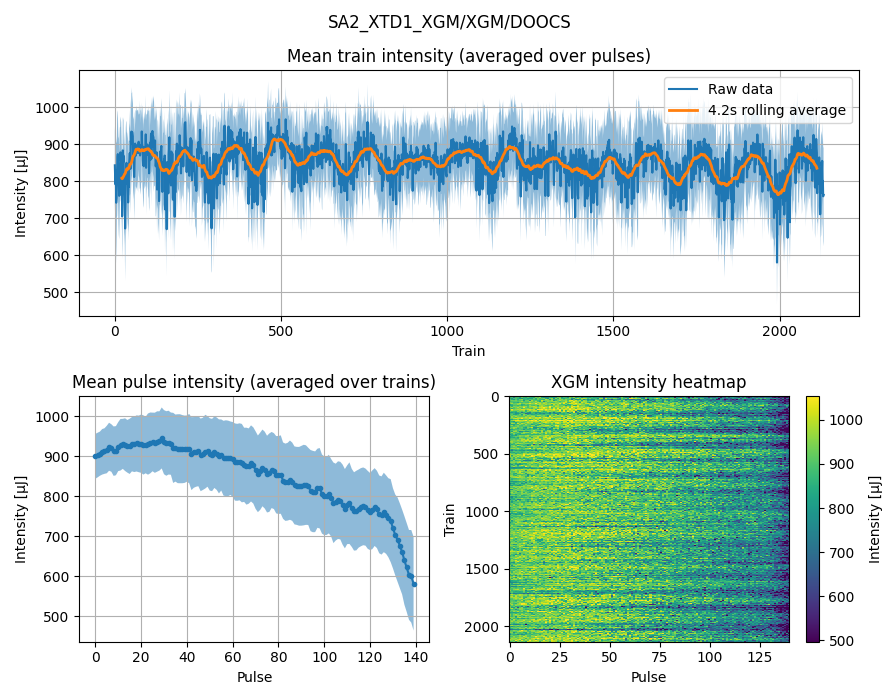
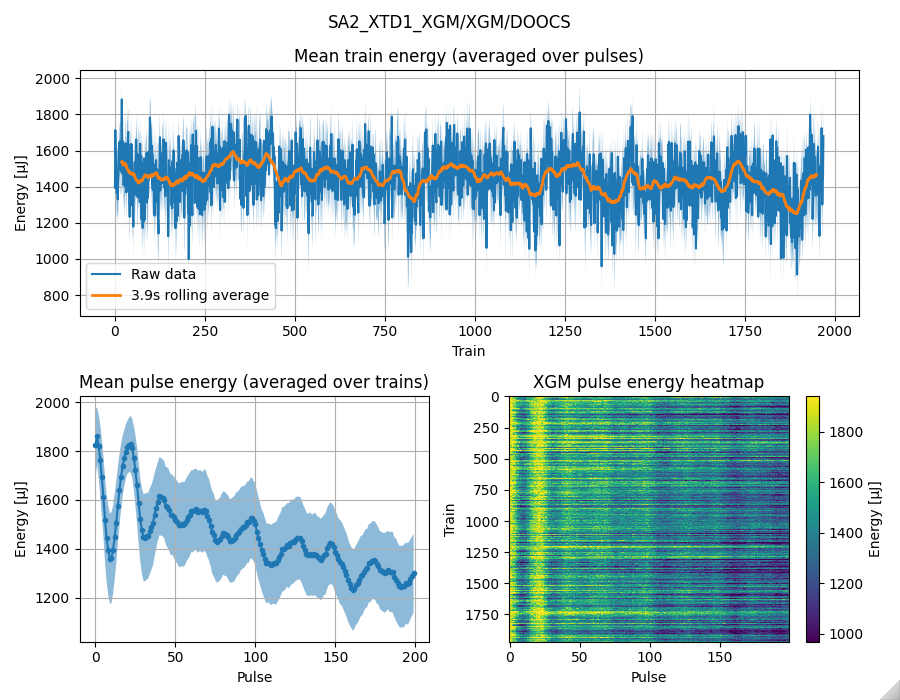
Rename 'intensity' to 'energy'
This is more physically accurate since the XGM actually gives back an energy
rather than intensity in its `data.intensityTD` property.

diff --git a/src/extra/components/xgm.py b/src/extra/components/xgm.py
@@ -139,7 +139,7 @@ class XGM:
                 working with XGMs on SASE 1 or SASE 3 and you're only interested
                 in data for a specific SASE. This setting applies to all the
                 SASE-specific methods of the class, such as
-                [XGM.intensity()][extra.components.XGM.intensity] and
+                [XGM.pulse_energy()][extra.components.XGM.pulse_energy] and
                 [XGM.npulses()][extra.components.XGM.npulses].
 
                 If it is not set the class will try to guess the SASE of the
@@ -189,7 +189,7 @@ class XGM:
         self._photon_energy_by_train = None
         self._photon_flux = None
         self._doocs_server = None
-        self._intensity = { }
+        self._pulse_energy = { }
         self._npulses = { }
         self._npulses_by_train = { }
         self._max_pulses = { }
@@ -299,14 +299,17 @@ class XGM:
 
         return PropertyGroup(sase) if sase is not None else self._default_pg
 
-    def intensity(self, sase=None):
-        """Return a 2D [DataArray][xarray.DataArray] of the pulse intensities in keV.
+    def pulse_energy(self, sase=None):
+        """Return a 2D [DataArray][xarray.DataArray] of the pulse energy in microjoules.
 
         This has dimensions of `(trainId, pulseIndex)`. For runs with a varying
         number of pulses, the data will be sliced to the *maximum number* of
         pulses. e.g. if a run has 100 trains with only one train containing 10
         pulses and all the others 0, the returned array will have a shape of
         `(100, 10)`.
+
+        Note:
+            This uses the `data.intensityTD` property of the XGM.
 
         Args:
             sase (int): Specify a SASE to retrieve data for. For XGMs from SASE
@@ -318,7 +321,7 @@ class XGM:
                 [constructor][extra.components.XGM].
         """
         pg = self._check_sase_arg(sase)
-        if pg not in self._intensity:
+        if pg not in self._pulse_energy:
             if pg == PropertyGroup.MAIN:
                 key = "data.intensityTD"
             else:
@@ -328,17 +331,17 @@ class XGM:
 
             # We could use .xarray(roi=...) here, but that fails because of h5py
             # when max_pulses is 0.
-            intensity = self.instrument_source[key].xarray()[:, :max_pulses]
+            pulse_energy = self.instrument_source[key].xarray()[:, :max_pulses]
             # Assign a pulseIndex dimension and coordinate
-            intensity = intensity.rename(dim_0="pulseIndex").assign_coords(pulseIndex=np.arange(max_pulses))
+            pulse_energy = pulse_energy.rename(dim_0="pulseIndex").assign_coords(pulseIndex=np.arange(max_pulses))
             # Replace the default fill value of 1 with 0
-            intensity.data[intensity.data == 1] = 0
+            pulse_energy.data[pulse_energy.data == 1] = 0
             # Add units
-            intensity.attrs["units"] = "µJ"
+            pulse_energy.attrs["units"] = "µJ"
 
-            self._intensity[pg] = intensity
+            self._pulse_energy[pg] = pulse_energy
 
-        return self._intensity[pg]
+        return self._pulse_energy[pg]
 
     def _get_main_nbunches_key(self):
         """Helper function to find the main key for the number of bunches.
@@ -369,7 +372,7 @@ class XGM:
 
         Args:
             sase (int): Same meaning as in
-                [XGM.intensity()][extra.components.XGM.intensity].
+                [XGM.pulse_energy()][extra.components.XGM.pulse_energy].
 
         Raises:
             ValueError: Will be thrown if the number of pulses is not constant.
@@ -392,7 +395,7 @@ class XGM:
 
         Args:
             sase (int): Same meaning as in
-                [XGM.intensity()][extra.components.XGM.intensity].
+                [XGM.pulse_energy()][extra.components.XGM.pulse_energy].
         """
         pg = self._check_sase_arg(sase)
         if pg not in self._npulses_by_train:
@@ -412,7 +415,7 @@ class XGM:
 
         Args:
             sase (int): Same meaning as in
-                [XGM.intensity()][extra.components.XGM.intensity].
+                [XGM.pulse_energy()][extra.components.XGM.pulse_energy].
         """
         pg = self._check_sase_arg(sase)
         if pg not in self._max_pulses:
@@ -428,7 +431,7 @@ class XGM:
 
         Args:
             sase (int): Same meaning as in
-                [XGM.intensity()][extra.components.XGM.intensity].
+                [XGM.pulse_energy()][extra.components.XGM.pulse_energy].
         """
         try:
             self.npulses(sase)
@@ -476,10 +479,10 @@ class XGM:
     def plot(self, sase=None, figsize=(9, 7)):
         """Plot an overview of data from the XGM.
 
-        This combines [XGM.plot_intensity()][extra.components.XGM.plot_intensity],
-        [XGM.plot_pulse_intensity()][extra.components.XGM.plot_pulse_intensity],
+        This combines [XGM.plot_pulse_energy()][extra.components.XGM.plot_pulse_energy],
+        [XGM.plot_energy_per_pulse()][extra.components.XGM.plot_energy_per_pulse],
         and
-        [XGM.plot_train_intensity()][extra.components.XGM.plot_train_intensity]
+        [XGM.plot_energy_per_train()][extra.components.XGM.plot_energy_per_train]
         in a single figure.
 
         Example plot:
@@ -487,7 +490,7 @@ class XGM:
 
         Args:
             sase (int): Same meaning as in
-                [XGM.intensity()][extra.components.XGM.intensity].
+                [XGM.pulse_energy()][extra.components.XGM.pulse_energy].
             figsize (tuple): The size of the [Figure][matplotlib.figure.Figure].
         """
         import matplotlib.pyplot as plt
@@ -499,9 +502,9 @@ class XGM:
         ax2 = fig.add_subplot(gs[1, 0])
         ax3 = fig.add_subplot(gs[1, 1])
 
-        self.plot_train_intensity(sase=sase, ax=ax1, minimal_title=True)
-        self.plot_intensity(sase=sase, ax=ax3, minimal_title=True)
-        self.plot_pulse_intensity(sase=sase, ax=ax2, minimal_title=True)
+        self.plot_energy_per_train(sase=sase, ax=ax1, minimal_title=True)
+        self.plot_pulse_energy(sase=sase, ax=ax3, minimal_title=True)
+        self.plot_energy_per_pulse(sase=sase, ax=ax2, minimal_title=True)
 
         run_prefix = self._get_run_prefix()
         device_label = self._get_device_label(sase)
@@ -511,15 +514,15 @@ class XGM:
 
         return fig.get_axes()[0]
 
-    def plot_intensity(self, sase=None, ax=None, minimal_title=False):
-        """Plot a heatmap of the pulse intensities.
+    def plot_pulse_energy(self, sase=None, ax=None, minimal_title=False):
+        """Plot a heatmap of the pulse energies.
 
         Example plot:
-        ![](../images/xgm-plot-intensity.png)
+        ![](../images/xgm-plot-pulse-energy.png)
 
         Args:
             sase (int): Same meaning as in
-                [XGM.intensity()][extra.components.XGM.intensity].
+                [XGM.pulse_energy()][extra.components.XGM.pulse_energy].
             ax (matplotlib.axes.Axes): The axis to plot in. This will default to
                 [plt][matplotlib.pyplot] if not provided.
             minimal_title (bool): Whether to include the proposal/run
@@ -531,47 +534,47 @@ class XGM:
         else:
             fig = ax.get_figure()
 
-        intensity = self.intensity(sase)
+        pulse_energy = self.pulse_energy(sase)
 
         from extra.utils import imshow2
-        im = imshow2(intensity, ax=ax, aspect="auto")
+        im = imshow2(pulse_energy, ax=ax, aspect="auto")
 
-        self._set_plot_title("XGM intensity heatmap", ax, sase, minimal_title)
+        self._set_plot_title("XGM pulse energy heatmap", ax, sase, minimal_title)
         ax.set_xlabel("Pulse")
         ax.set_ylabel("Train")
 
         colorbar = fig.colorbar(im)
-        colorbar.ax.set_ylabel("Intensity [μJ]")
+        colorbar.ax.set_ylabel("Energy [μJ]")
         fig.tight_layout()
 
         return ax
 
-    def plot_pulse_intensity(self, sase=None, ax=None, minimal_title=False):
-        """Plot the average pulse intensity.
+    def plot_energy_per_pulse(self, sase=None, ax=None, minimal_title=False):
+        """Plot the average pulse energy.
 
         Example plot:
-        ![](../images/xgm-plot-pulse-intensities.png)
+        ![](../images/xgm-plot-energy-per-pulse.png)
 
         Args:
             sase (int): Same meaning as in
-                [XGM.intensity()][extra.components.XGM.intensity].
+                [XGM.pulse_energy()][extra.components.XGM.pulse_energy].
             ax (matplotlib.axes.Axes): The axis to plot in. This will default to
                 [plt][matplotlib.pyplot] if not provided.
             minimal_title (bool): Whether to include the proposal/run
                 information and XGM device name in the title.
         """
-        return self._plot_axis_intensity("pulse", "train", sase, ax, fmt="o-",
+        return self._plot_axis_energy("pulse", "train", sase, ax, fmt="o-",
                                          markersize=3, minimal_title=minimal_title)
 
-    def plot_train_intensity(self, sase=None, window_trains=None, ax=None, minimal_title=False):
-        """Plot the average train intensity.
+    def plot_energy_per_train(self, sase=None, window_trains=None, ax=None, minimal_title=False):
+        """Plot the average train energy.
 
         Example plot:
-        ![](../images/xgm-plot-train-intensities.png)
+        ![](../images/xgm-plot-energy-per-train.png)
 
         Args:
             sase (int): Same meaning as in
-                [XGM.intensity()][extra.components.XGM.intensity].
+                [XGM.pulse_energy()][extra.components.XGM.pulse_energy].
             window_trains (int): The number of trains to use when plotting the
                 rolling average. By default this is chosen automatically based
                 on the number of trains in the run.
@@ -580,49 +583,49 @@ class XGM:
             minimal_title (bool): Whether to include the proposal/run
                 information and XGM device name in the title.
         """
-        intensity = self.intensity(sase)
+        pulse_energy = self.pulse_energy(sase)
 
         if window_trains is None:
             # Select a number of trains such that the number of points
             # will be about 500. The goal is to smooth the data just enough
             # to see something visually useful no matter how long the run is.
-            window_trains = max(1, int(intensity.shape[0] / 500 * 10))
+            window_trains = max(1, int(pulse_energy.shape[0] / 500 * 10))
 
-        ax = self._plot_axis_intensity("train", "pulse", sase, ax, minimal_title=minimal_title)
+        ax = self._plot_axis_energy("train", "pulse", sase, ax, minimal_title=minimal_title)
 
         if window_trains > 1 and len(self._control_source.train_ids) > 300:
-            rolling_mean = intensity.mean(dim="pulseIndex").rolling(trainId=window_trains, center=True).mean()
+            rolling_mean = pulse_energy.mean(dim="pulseIndex").rolling(trainId=window_trains, center=True).mean()
             ax.plot(rolling_mean, label=f"{window_trains / 10:.1f}s rolling average", linewidth=2)
 
         ax.legend()
 
         return ax
 
-    def _plot_axis_intensity(self, axis_name, other_axis_name, sase, ax, fmt="-", minimal_title=False, **kwargs):
+    def _plot_axis_energy(self, axis_name, other_axis_name, sase, ax, fmt="-", minimal_title=False, **kwargs):
         if ax is None:
             import matplotlib.pyplot as plt
             fig, ax = plt.subplots(figsize=(9, 5))
 
-        intensity = self.intensity(sase)
+        pulse_energy = self.pulse_energy(sase)
 
         get_dim = lambda x: "trainId" if x == "train" else "pulseIndex"
-        axis_intensity = intensity.mean(dim=get_dim(other_axis_name))
-        axis_std = intensity.std(dim=get_dim(other_axis_name))
-        xs = np.arange(len(axis_intensity))
+        axis_energy = pulse_energy.mean(dim=get_dim(other_axis_name))
+        axis_std = pulse_energy.std(dim=get_dim(other_axis_name))
+        xs = np.arange(len(axis_energy))
 
-        ax.plot(axis_intensity, fmt if len(xs) > 1 else "o", label="Raw data", **kwargs)
+        ax.plot(axis_energy, fmt if len(xs) > 1 else "o", label="Raw data", **kwargs)
 
         if len(xs) > 1:
             ax.fill_between(xs,
-                            axis_intensity - axis_std, axis_intensity + axis_std,
+                            axis_energy - axis_std, axis_energy + axis_std,
                             alpha=0.5)
         else:
-            ax.errorbar(xs, axis_intensity, yerr=axis_std, capsize=10, fmt="none")
+            ax.errorbar(xs, axis_energy, yerr=axis_std, capsize=10, fmt="none")
 
-        self._set_plot_title(f"Mean {axis_name} intensity (averaged over {other_axis_name}s)",
+        self._set_plot_title(f"Mean {axis_name} energy (averaged over {other_axis_name}s)",
                              ax, sase, minimal_title)
         ax.set_xlabel(axis_name.capitalize())
-        ax.set_ylabel("Intensity [μJ]")
+        ax.set_ylabel("Energy [μJ]")
         ax.grid()
 
         return ax
@@ -643,7 +646,7 @@ class XGM:
         {self.control_source.source} properties{run_str}:
           Avg. nominal wavelength:    {self.wavelength_by_train().mean().item():.3f} nm
           Avg. nominal photon energy: {self.photon_energy_by_train().mean().item():.2f} keV
-          Avg. pulse energy:          {self.intensity().mean().item():.2f} µJ
+          Avg. pulse energy:          {self.pulse_energy().mean().item():.2f} µJ
 
           Max pulses:                 {self.max_npulses()}
           Mean pulses:                {self.pulse_counts().mean().item():.3f}

diff --git a/tests/test_components_xgm.py b/tests/test_components_xgm.py
@@ -57,7 +57,7 @@ def test_xgm_getters(multi_xgm_run, source_sase):
     assert isinstance(xgm.photon_energy(with_units=False), float)
     xgm.photon_energy_by_train()
     xgm.doocs_server()
-    xgm.intensity()
+    xgm.pulse_energy()
     xgm.npulses()
     xgm.pulse_counts()
     xgm.max_npulses()
@@ -71,33 +71,33 @@ def test_multisase_xgm(multi_xgm_run):
     # Test results without setting `default_sase`
     xgm = XGM(run, control)
     # It should automatically pick SASE 3 based on the source name
-    assert xgm.intensity().name == f"{instrument}.data.intensitySa3TD"
+    assert xgm.pulse_energy().name == f"{instrument}.data.intensitySa3TD"
     assert xgm.pulse_counts().name == f"{control}.pulseEnergy.numberOfSa3BunchesActual"
 
     # And with a `default_sase`
     xgm = XGM(run, control, default_sase=1)
-    assert xgm.intensity().name == f"{instrument}.data.intensitySa1TD"
+    assert xgm.pulse_energy().name == f"{instrument}.data.intensitySa1TD"
     assert xgm.pulse_counts().name == f"{control}.pulseEnergy.numberOfSa1BunchesActual"
 
     # Test specifying an explicit non-default SASE
-    assert xgm.intensity(0).name == f"{instrument}.data.intensityTD"
+    assert xgm.pulse_energy(0).name == f"{instrument}.data.intensityTD"
     assert xgm.pulse_counts(0).name == f"{control}.pulseEnergy.numberOfBunchesActual"
 
-    assert xgm.intensity(3).name == f"{instrument}.data.intensitySa3TD"
+    assert xgm.pulse_energy(3).name == f"{instrument}.data.intensitySa3TD"
     assert xgm.pulse_counts(3).name == f"{control}.pulseEnergy.numberOfSa3BunchesActual"
 
     # Smoke tests
-    mock_intensity = xr.DataArray(np.random.rand(1000, 100),
+    mock_pulse_energy = xr.DataArray(np.random.rand(1000, 100),
                                   dims=("trainId", "pulseIndex"))
-    with patch.object(xgm, "intensity", return_value=mock_intensity):
+    with patch.object(xgm, "pulse_energy", return_value=mock_pulse_energy):
         # Test both a specific SASE (the current `default_sase`) and the main
         # properties (with `sase=0`).
-        xgm.plot_intensity()
-        xgm.plot_intensity(0)
-        xgm.plot_pulse_intensity()
-        xgm.plot_pulse_intensity(0)
-        xgm.plot_train_intensity()
-        xgm.plot_train_intensity(0)
+        xgm.plot_pulse_energy()
+        xgm.plot_pulse_energy(0)
+        xgm.plot_energy_per_pulse()
+        xgm.plot_energy_per_pulse(0)
+        xgm.plot_energy_per_train()
+        xgm.plot_energy_per_train(0)
         xgm.plot()
 
     assert xgm.is_constant_pulse_count()
@@ -116,4 +116,4 @@ def test_run_union(multi_xgm_run, mock_spb_aux_run):
         xgm.doocs_server()
 
     # Smoke test to check that non-RUN values work
-    xgm.intensity()
+    xgm.pulse_energy()
